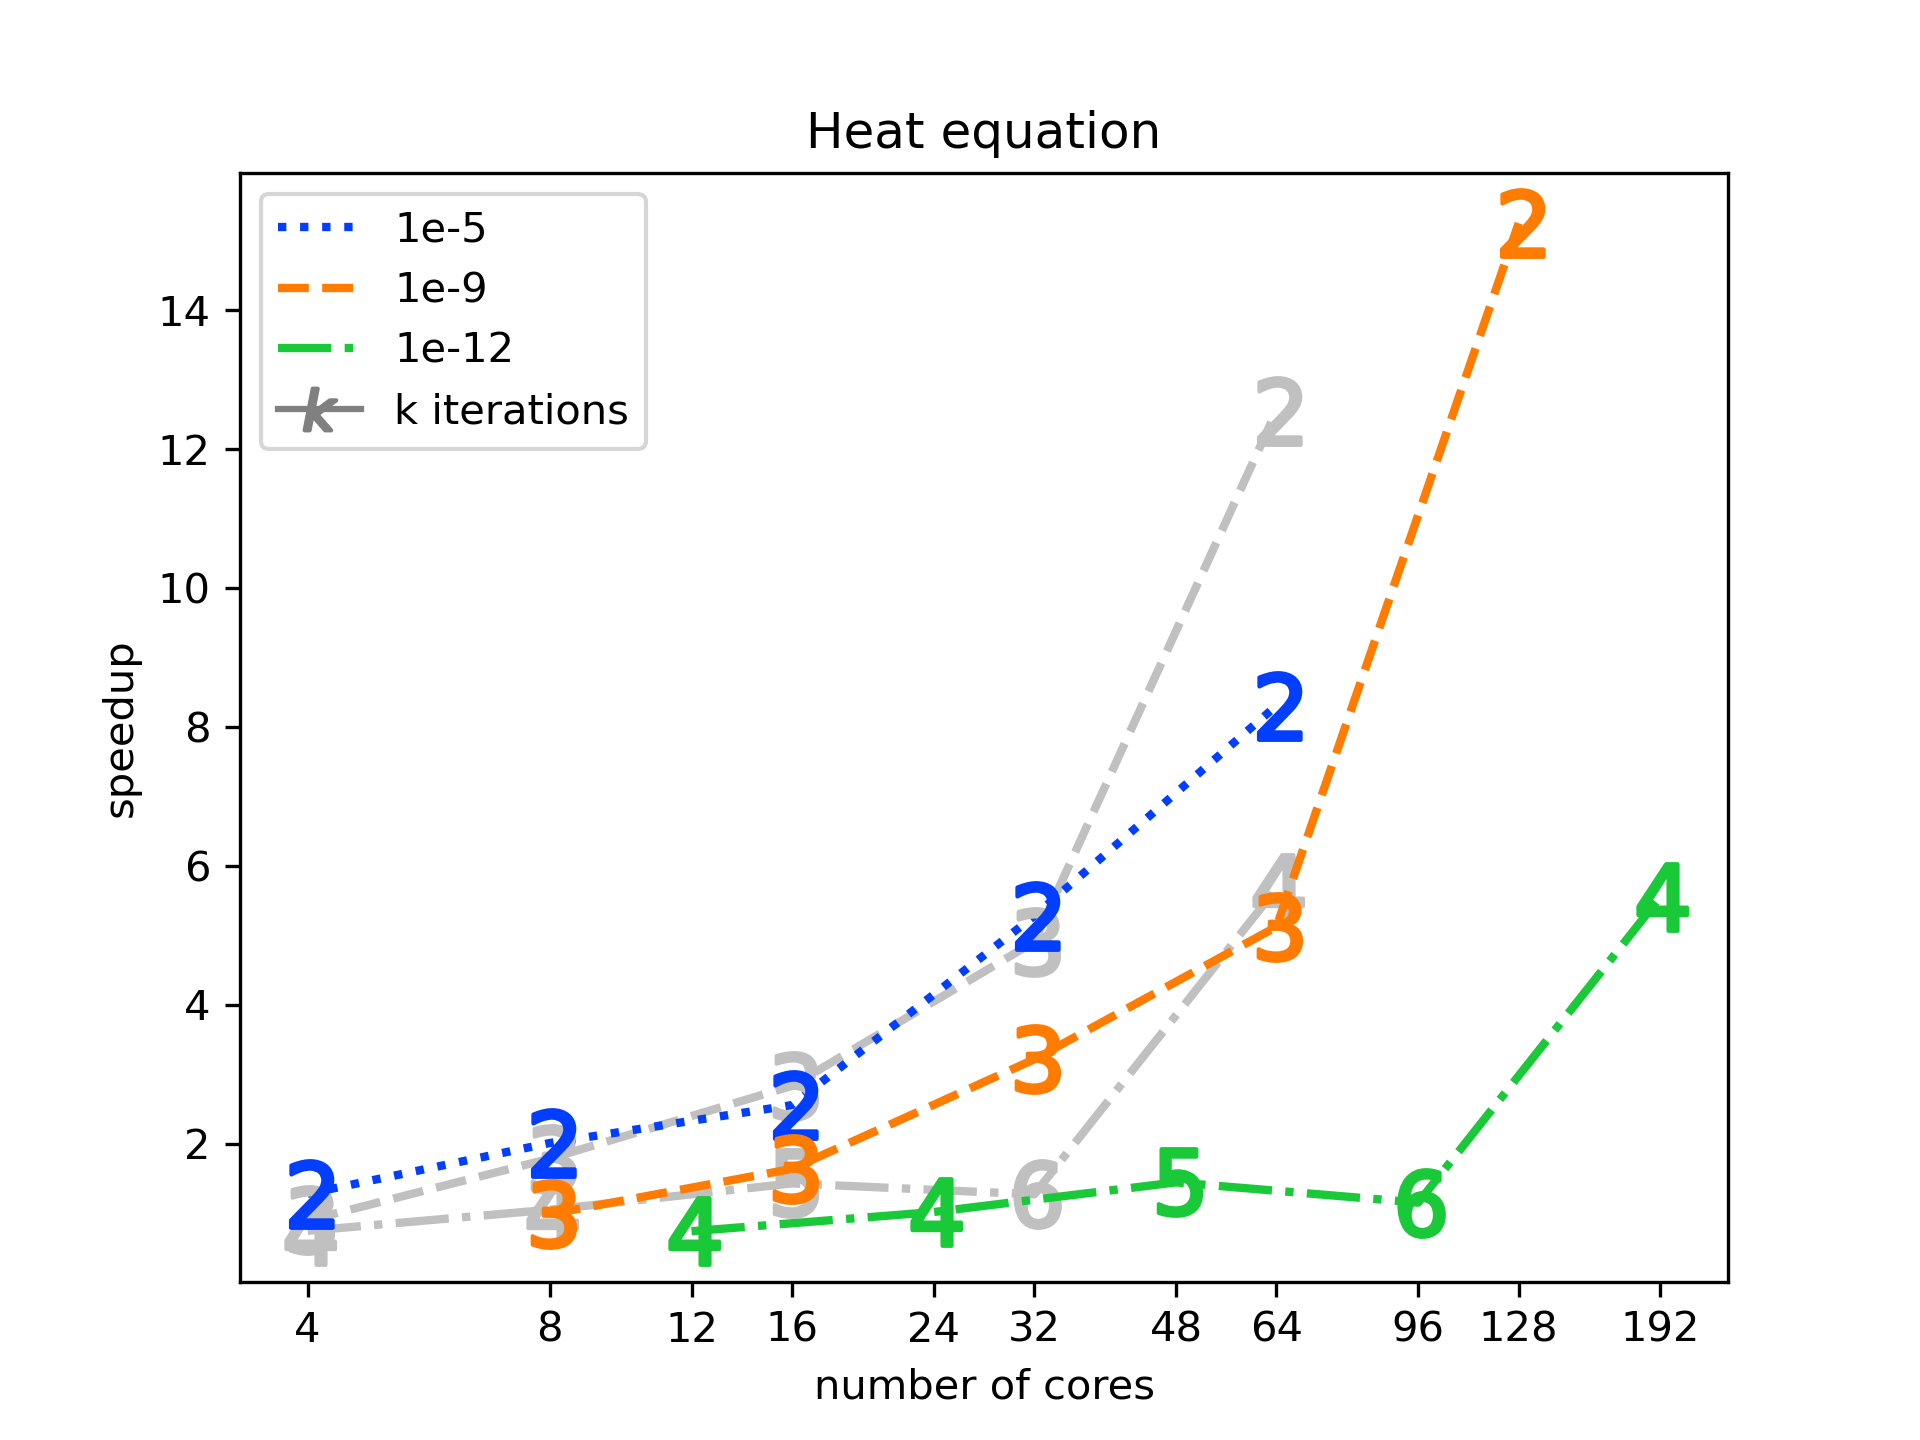
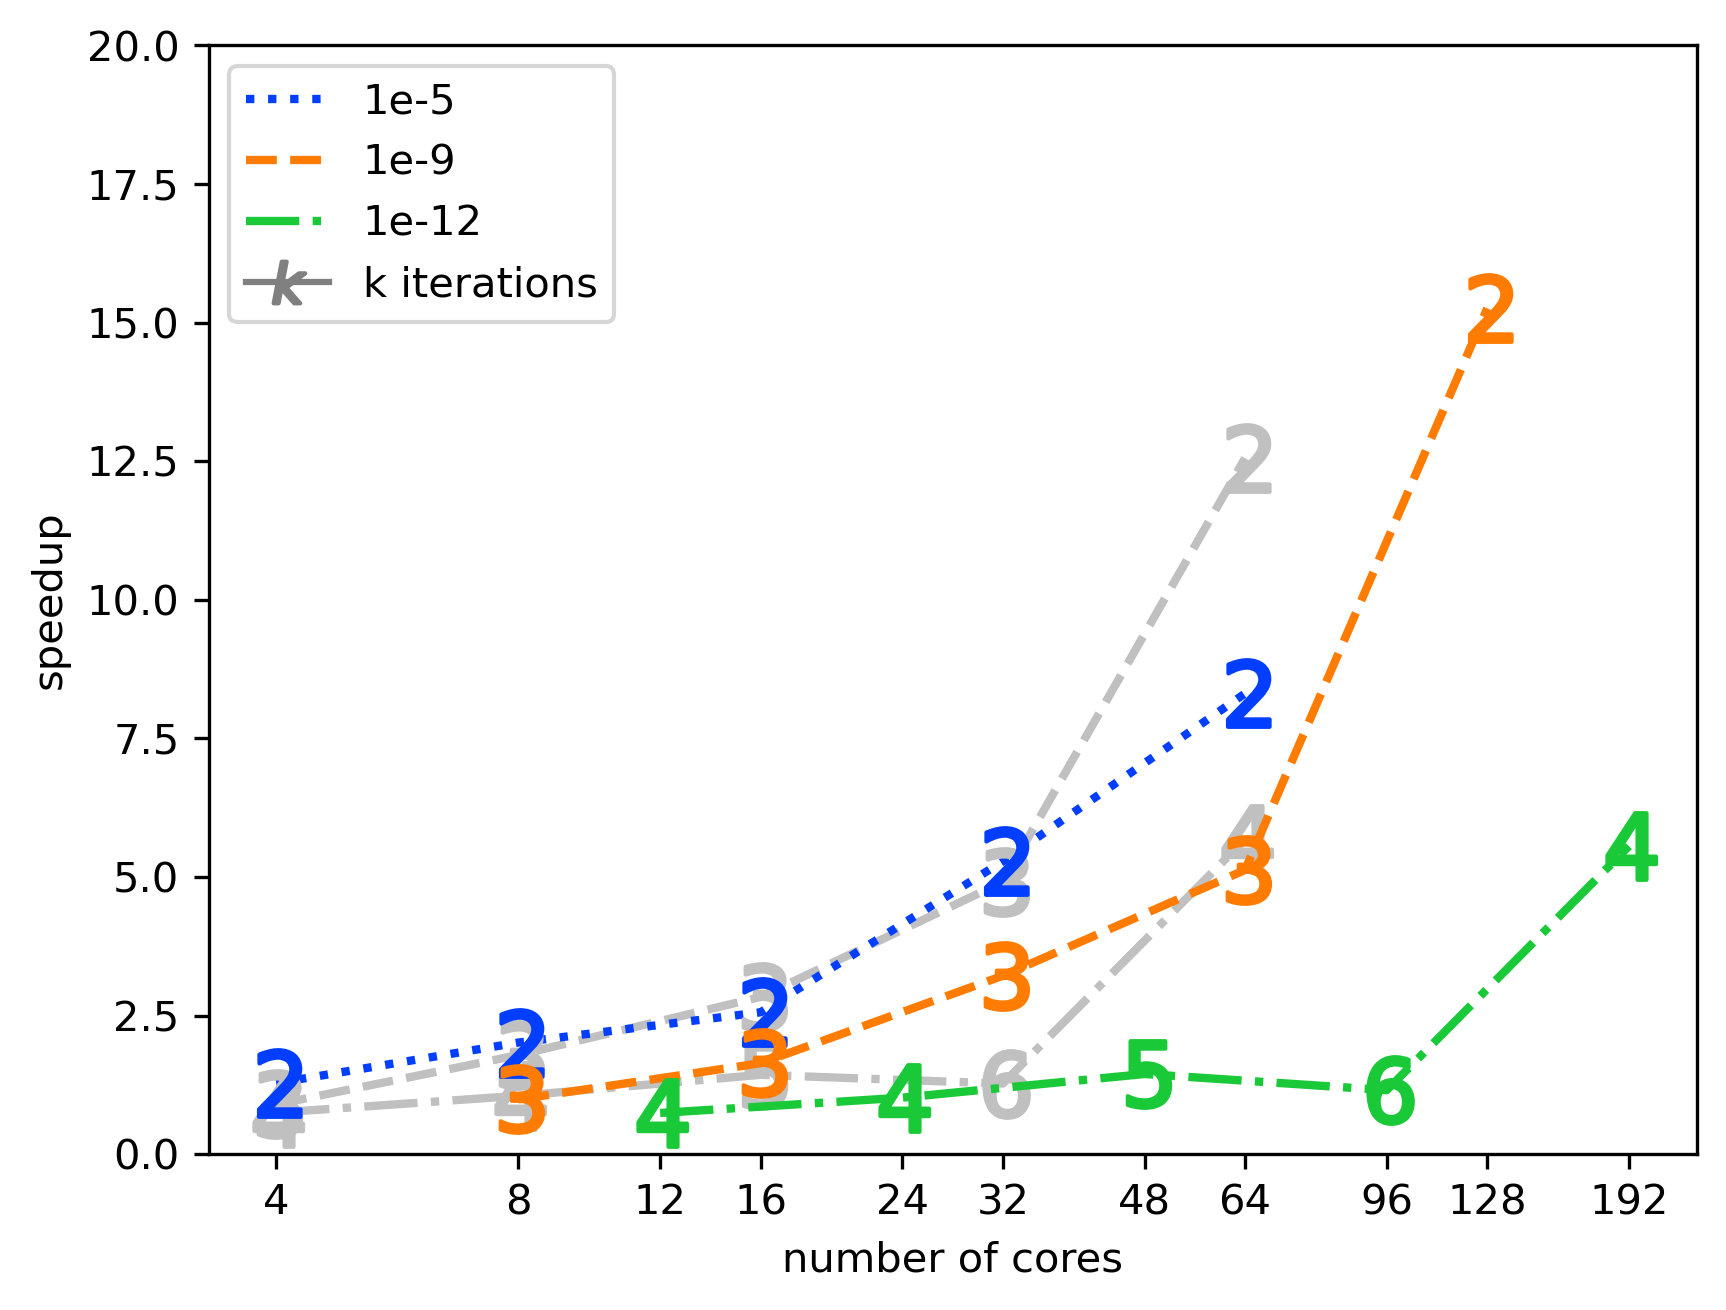
heat3 with tolling

diff --git a/test_runs_and_plots/problem_scaling/heat3_roberts_wish/run.py b/test_runs_and_plots/problem_scaling/heat3_roberts_wish/run.py
@@ -1,0 +1,41 @@
+import os
+os.environ["OMP_NUM_THREADS"] = "1"
+os.environ["OPENBLAS_NUM_THREADS"] = "1"
+os.environ["MKL_NUM_THREADS"] = "1"
+os.environ["VECLIB_MAXIMUM_THREADS"] = "1"
+os.environ["NUMEXPR_NUM_THREADS"] = "1"
+
+import sys
+sys.path.append('../../../../../../..')    # for jube
+sys.path.append('../../../../../../../..')    # for pySDC
+import numpy as np
+from problem_examples_parallel.heat_2d_pbc_central6 import Heat as Heat6
+
+prob = Heat6()
+N = 350
+prob.spatial_points = [N, N]
+prob.tol = 1e-12
+prob.proc_col = 3
+prob.time_points = 3
+prob.optimal_alphas = True
+prob.T_start = np.pi
+prob.solver = 'custom'
+prob.maxiter = 10
+prob.smaxiter = 50
+prob.stol = 1e-13
+prob.T_end += np.pi
+prob.m0 = (prob.T_end - prob.T_start)/prob.rolling
+
+prob.setup()
+prob.solve()
+prob.summary(details=True)
+
+if prob.rank == prob.size - 1:
+    exact = prob.u_exact(prob.T_end, prob.x).flatten()[prob.row_beg:prob.row_end]
+    approx = prob.u_last_loc.flatten()
+    d = exact - approx
+    d = d.flatten()
+    err_abs = np.linalg.norm(d, np.inf)
+    print('abs err = {}'.format(err_abs))
+
+

diff --git a/test_runs_and_plots/problem_scaling/speedup_interval_coll.py b/test_runs_and_plots/problem_scaling/speedup_interval_coll.py
@@ -6,7 +6,7 @@ from matplotlib.lines import Line2D
 'plotting the a fully serial and interval-coll-parallel speedup' \
 'the gray plots are the fully serial and interval-parallel speedup'
 
-NAME = 'Schrodinger'
+NAME = 'Advection'
 
 if NAME == 'Heat':
     path2 = ['heat2/output/000001/result/result.dat', 'heat3/output/000001/result/result.dat']
@@ -128,10 +128,13 @@ for run in range(len(eq3)):
 custom_lines.append(Line2D([0], [0], marker="$k$", markersize=10, color='gray'))
 names.append('k iterations')
 
-plt.legend(custom_lines, names)
+plt.legend(custom_lines, names, loc='upper left')
 plt.xticks(np.log2(nnproc), nnproc)
 plt.ylabel('speedup')
 plt.xlabel('number of cores')
-plt.title(NAME + ' equation')
+plt.ylim([0, 20])
+# plt.title(NAME + ' equation')
 # plt.show()
-plt.savefig('AAplots/speedup_' + NAME + '_interval_coll', dpi=300)
+fig = plt.gcf()
+fig.set_size_inches(4, 4)
+plt.savefig('AAplots/speedup_' + NAME + '_interval_coll', dpi=300, bbox_inches='tight')

diff --git a/test_runs_and_plots/problem_scaling/efficiency_interval_coll.py b/test_runs_and_plots/problem_scaling/efficiency_interval_coll.py
@@ -6,7 +6,7 @@ from matplotlib.lines import Line2D
 'plotting the a fully serial and interval-coll-parallel efficiency' \
 'the gray plots are the fully serial and interval-parallel efficiency'
 
-NAME = 'Heat'
+NAME = 'Schrodinger'
 
 if NAME == 'Heat':
     path2 = ['heat2/output/000001/result/result.dat', 'heat3/output/000001/result/result.dat']
@@ -133,12 +133,15 @@ custom_lines.append(Line2D([0], [0], marker="$k$", markersize=10, color='gray'))
 names.append('k iterations')
 
 
-plt.legend(custom_lines, names)
+plt.legend(custom_lines, names,  loc='upper right')
 plt.xticks(np.log2(nnproc), nnproc)
 plt.ylabel('efficiency')
 plt.xlabel('number of cores')
-plt.title(NAME + ' equation')
+plt.ylim([0, 0.62])
+# plt.title(NAME + ' equation')
 
 # plt.show()
-plt.savefig('AAplots/efficiency_' + NAME + '_interval_coll', dpi=300)
+# fig = plt.gcf()
+# fig.set_size_inches(4, 4)
+plt.savefig('AAplots/efficiency_' + NAME + '_interval_coll', dpi=300, bbox_inches='tight')
 

diff --git a/test_runs_and_plots/problem_scaling/speedup_coll.py b/test_runs_and_plots/problem_scaling/speedup_coll.py
@@ -6,7 +6,7 @@ from matplotlib.lines import Line2D
 'plotting the a coll-parallel and interval-coll-parallel speedup' \
 'the gray plots are the fully serial and interval-parallel speedup'
 
-NAME = 'Schrodinger'
+NAME = 'Advection'
 
 if NAME == 'Heat':
     path2 = ['heat2/output/000001/result/result.dat', 'heat3/output/000001/result/result.dat']
@@ -116,11 +116,14 @@ for run in range(len(eq2)):
 custom_lines.append(Line2D([0], [0], marker="$k$", markersize=10, color='gray'))
 names.append('k iterations')
 
-plt.legend(custom_lines, names)
+plt.legend(custom_lines, names, loc='upper left')
 plt.xticks(np.log2(nnproc), nnproc)
 plt.ylabel('speedup')
 plt.xlabel('number of cores')
-plt.title(NAME + ' equation')
+# plt.title(NAME + ' equation')
+plt.ylim([0, 20])
 # plt.show()
-plt.savefig('AAplots/speedup_' + NAME + '_coll', dpi=300)
+# fig = plt.gcf()
+# fig.set_size_inches(5, 5)
+plt.savefig('AAplots/speedup_' + NAME + '_coll', dpi=300, bbox_inches='tight')
 

diff --git a/test_runs_and_plots/problem_scaling/speedup_interval.py b/test_runs_and_plots/problem_scaling/speedup_interval.py
@@ -5,7 +5,7 @@ from matplotlib.lines import Line2D
 
 'plotting the a fully serial and interval-parallel speedup'
 
-NAME = 'Schrodinger'
+NAME = 'Advection'
 
 if NAME == 'Heat':
     path3 = ['heat1/output/000000/result/result.dat', 'heat2/output/000000/result/result.dat',
@@ -60,11 +60,14 @@ for run in range(len(eq3)):
 custom_lines.append(Line2D([0], [0], marker="$k$", markersize=10, color='gray'))
 names.append('k iterations')
 
-plt.legend(custom_lines, names)
+plt.legend(custom_lines, names, loc='upper left')
 plt.xticks(np.log2(nproc), nproc)
 plt.ylabel('speedup')
 plt.xlabel('number of cores')
-plt.title(NAME + ' equation')
+plt.ylim([0, 20])
+# plt.title(NAME + ' equation')
 # plt.show()
-plt.savefig('AAplots/speedup_' + NAME + '_interval', dpi=300)
+# fig = plt.gcf()
+# fig.set_size_inches(4, 4)
+plt.savefig('AAplots/speedup_' + NAME + '_interval', dpi=300, bbox_inches='tight')
 

diff --git a/test_runs_and_plots/problem_scaling/efficiency_interval.py b/test_runs_and_plots/problem_scaling/efficiency_interval.py
@@ -65,11 +65,14 @@ for run in range(len(eq3)):
 custom_lines.append(Line2D([0], [0], marker="$k$", markersize=10, color='gray'))
 names.append('k iterations')
 
-plt.legend(custom_lines, names)
+plt.legend(custom_lines, names,  loc='upper right')
 plt.xticks(np.log2(nproc), nproc)
 plt.ylabel('efficiency')
 plt.xlabel('number of cores')
-plt.title(NAME + ' equation')
+plt.ylim([0, 0.62])
+# plt.title(NAME + ' equation')
 # plt.show()
-plt.savefig('AAplots/efficiency_' + NAME + '_interval', dpi=300)
+# fig = plt.gcf()
+# fig.set_size_inches(5.5, 4)
+plt.savefig('AAplots/efficiency_' + NAME + '_interval', dpi=300, bbox_inches='tight')
 

diff --git a/test_runs_and_plots/problem_scaling/efficiency_coll.py b/test_runs_and_plots/problem_scaling/efficiency_coll.py
@@ -118,10 +118,13 @@ for run in range(len(eq2)):
 custom_lines.append(Line2D([0], [0], marker="$k$", markersize=10, color='gray'))
 names.append('k iterations')
 
-plt.legend(custom_lines, names)
+plt.legend(custom_lines, names, loc='upper right')
 plt.xticks(np.log2(nnproc), nnproc)
 plt.ylabel('efficiency')
 plt.xlabel('number of cores')
-plt.title(NAME + ' equation')
+plt.ylim([0, 0.62])
+# plt.title(NAME + ' equation')
 # plt.show()
-plt.savefig('AAplots/efficiency_' + NAME + '_coll', dpi=300)
+# fig = plt.gcf()
+# fig.set_size_inches(5, 4)
+plt.savefig('AAplots/efficiency_' + NAME + '_coll', dpi=300, bbox_inches='tight')
